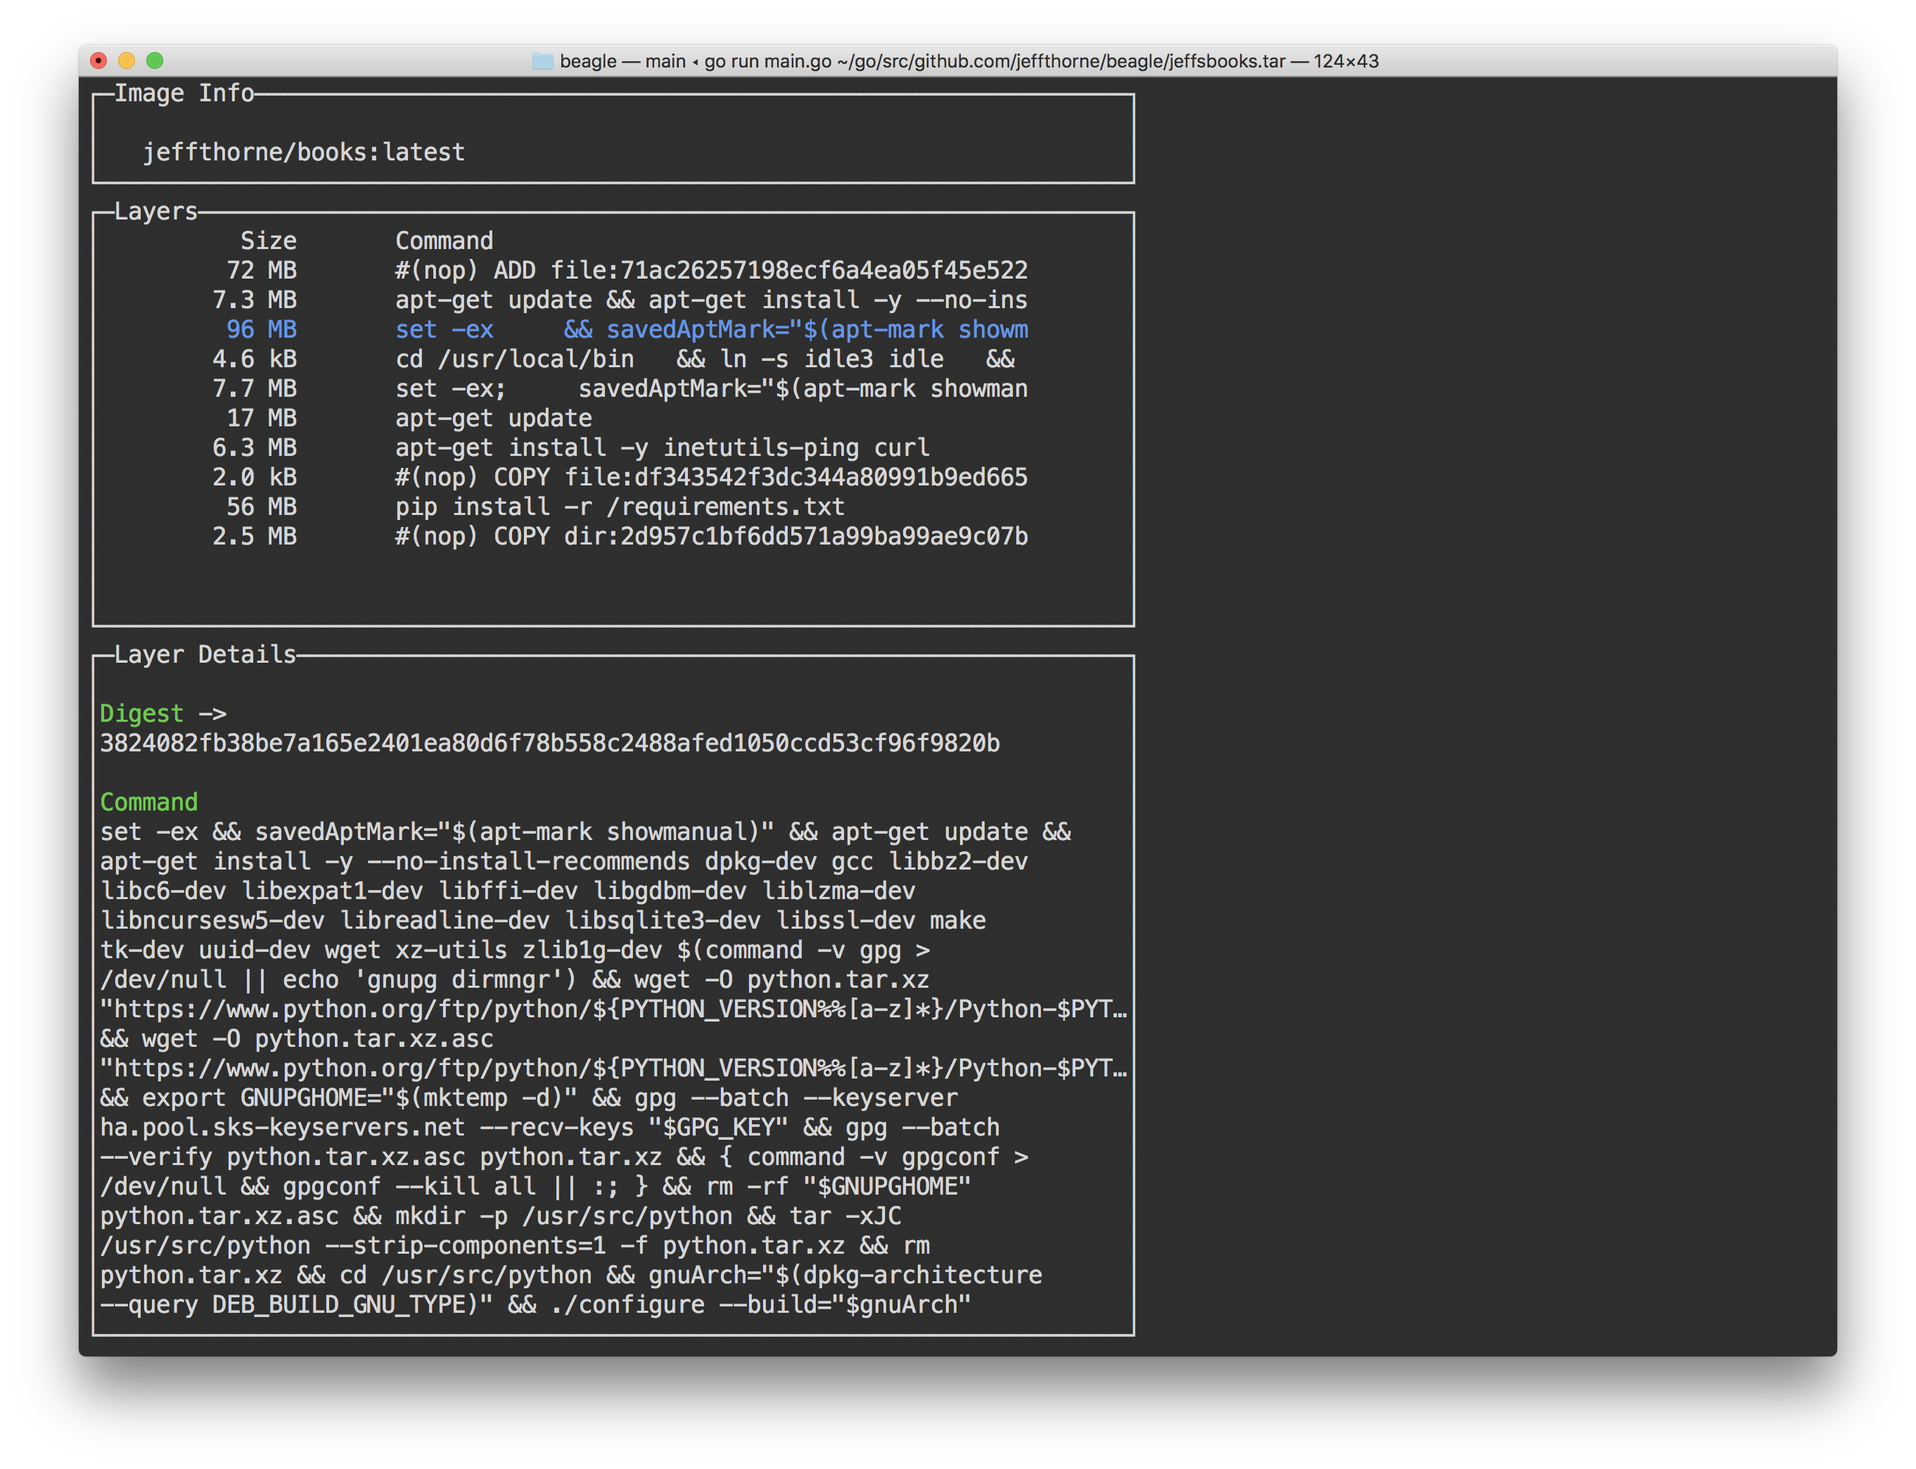
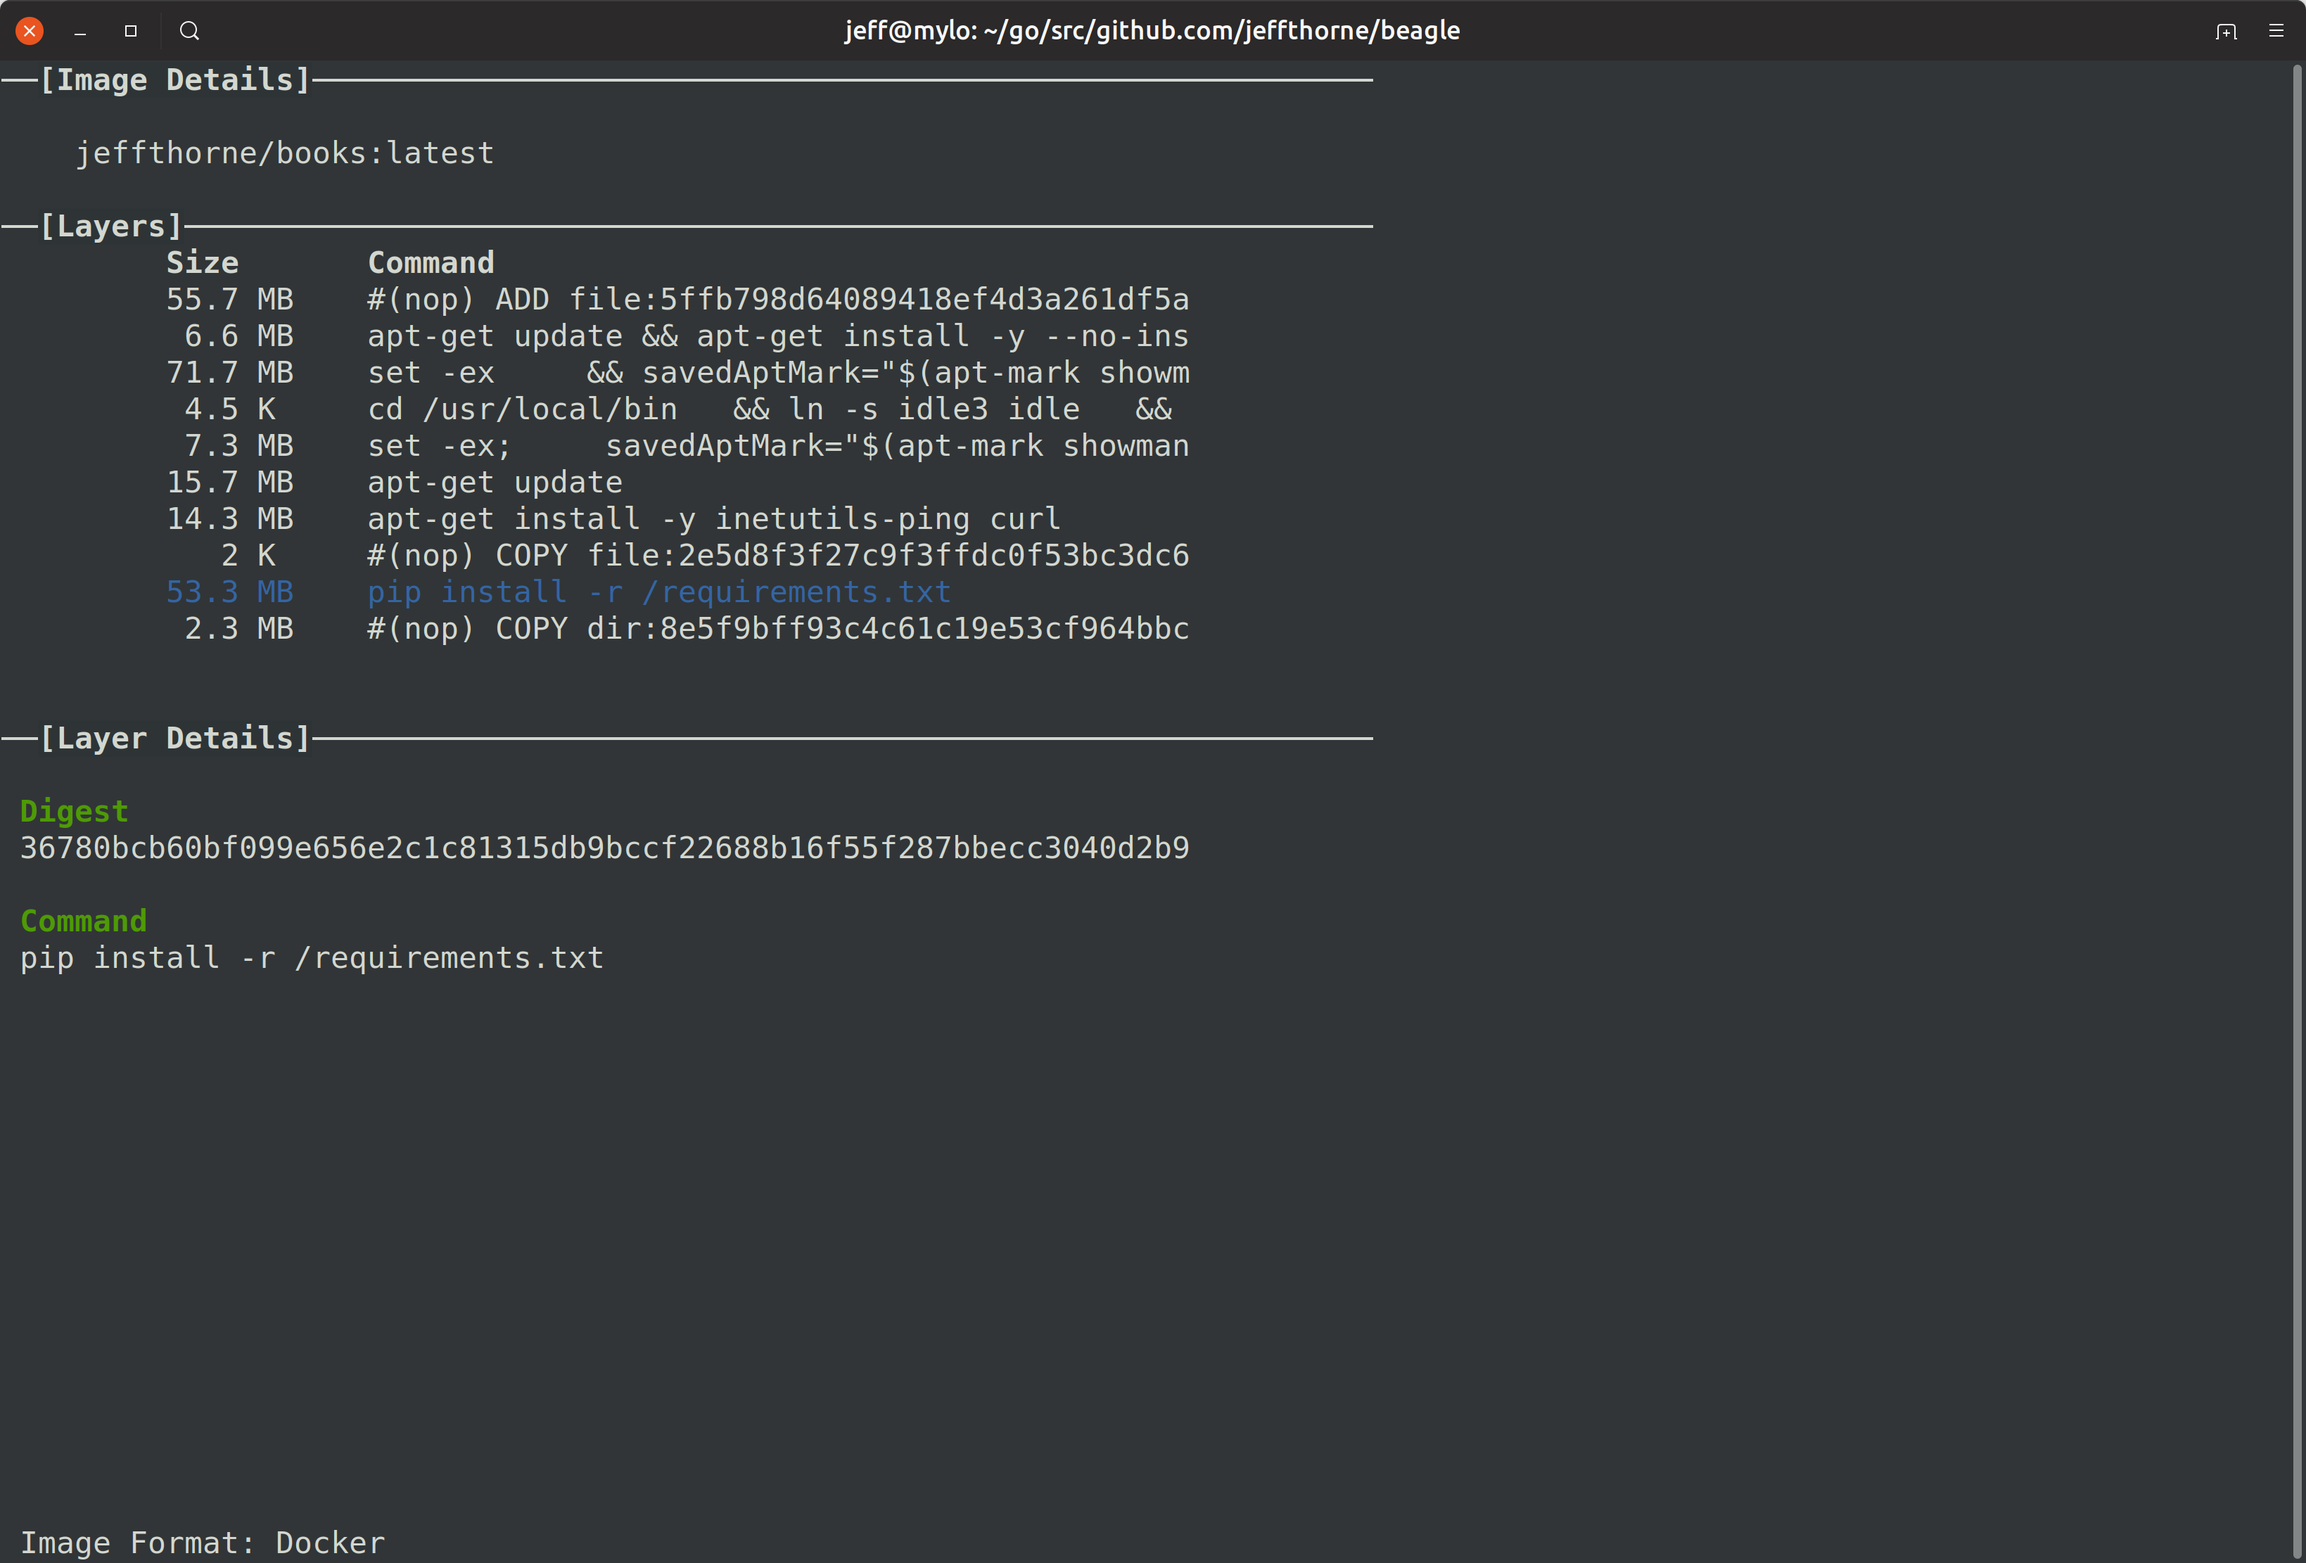
updated ui

Changed region(s): [[0.0, 0.0, 1.0, 1.0], [0.5617, 0.467, 0.5929, 0.4981], [0.5617, 0.4047, 0.5929, 0.4358]]

diff --git a/dashboard/ui.go b/dashboard/ui.go
@@ -50,7 +50,9 @@ func UILayerDetailsWidget(selectedRow int, image *images.Image, p *widgets.Parag
 func UIImageDetailsWidget(image *images.Image, termHeight int) *widgets.Paragraph {
 	i := widgets.NewParagraph()
 	i.Text = ImageInfo(image)
-	i.Title = "Image Details"
+	i.Title = "[Image Details]"
+	i.TitleStyle = styleBold
+	i.BorderTop, i.BorderBottom, i.BorderLeft, i.BorderRight = true, false, false, false
 	return i
 }
 
@@ -81,7 +83,7 @@ func Layers(image *images.Image) []string {
 
 		bs := ByteSize(l.Size)
 
-		fmt.Fprintf(w, "\t%s\t   %s\t",bs, utils.StringMaxSize(l.CreatedBy[11:], 45))
+		fmt.Fprintf(w, "\t%s\t   %s\t", bs, utils.StringMaxSize(l.CreatedBy[11:], 45))
 		w.Flush()
 		layers = append(layers, b.String())
 		b.Reset()
@@ -115,13 +117,12 @@ func LayerParagraph(layerNumber int, image *images.Image) string {
 	layer := imagesLayers[layerNumber-1]
 	digest := strings.Split(layer.(string), "/")[0]
 	l := image.Layers[digest]
-	fmt.Fprintf(w, "\n[Digest](fg:green,mod:bold) -> %s\n\n\t[Command](fg:green,mod:bold)\n\t%s", l.DigestString, l.CreatedBy[11:])
+	fmt.Fprintf(w, "\n[Digest](fg:green,mod:bold)\n%s\n\n\t[Command](fg:green,mod:bold)\n\t%s", l.DigestString, l.CreatedBy[11:])
 	//b.WriteString("\n\t\tDigest: " + l.DigestString + "\n\n\tCommand:\n" + l.CreatedBy[11:])
 	w.Flush()
 	return b.String()
 
 }
-
 
 func ByteSize(bytes uint64) string {
 	unit := ""
@@ -157,4 +158,3 @@ func ByteSize(bytes uint64) string {
 	result = fmt.Sprintf("%4s %s ", result, unit)
 	return result
 }
-

diff --git a/dashboard/statusbar.go b/dashboard/statusbar.go
@@ -22,7 +22,8 @@ func (self *StatusBar) Draw(buf *ui.Buffer) {
 	self.Block.Draw(buf)
 
 	buf.SetString(
-		"Image: "+self.Image.Repository+"/"+self.Image.Name+":"+self.Image.Tag,
+		//"Image: "+self.Image.Repository+"/"+self.Image.Name+":"+self.Image.Tag,
+		"Image Format: Docker",
 		ui.NewStyle(ui.ColorWhite),
 		image.Pt(self.Inner.Min.X, self.Inner.Min.Y+(self.Block.Inner.Dy()/2)),
 	)

diff --git a/main.go b/main.go
@@ -30,6 +30,7 @@ func main() {
 	i := dashboard.UIImageDetailsWidget(image, termHeight)
 	bar := dashboard.NewStatusBar(image)
 
+
 	grid := ui.NewGrid()
 	termWidth, termHeight := ui.TerminalDimensions()
 	grid.SetRect(0, 0, termWidth, termHeight-1)
